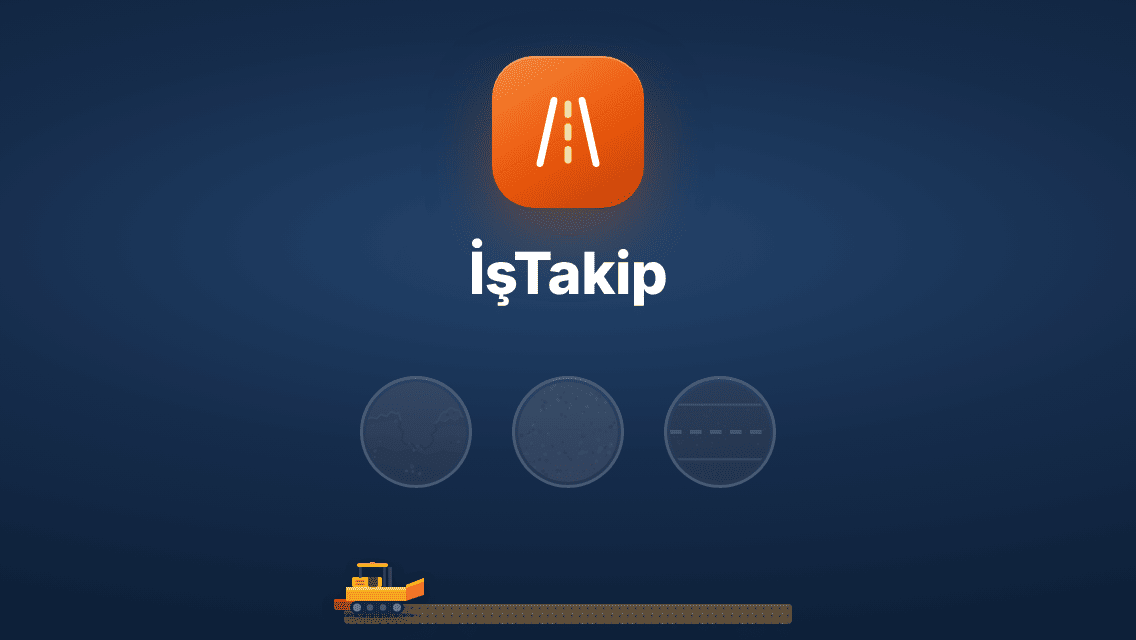
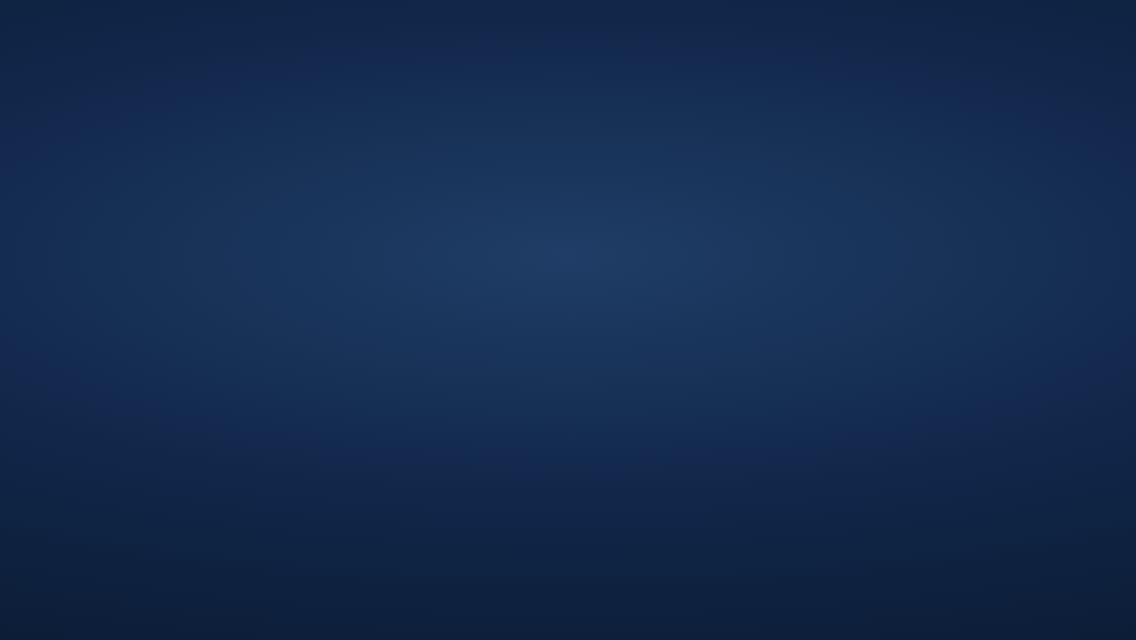
v196: yeni ikon (perspektif yol) ve açılış: 3 boyutlu yol kesiti, İşTakip yazısı yolla birlikte açılır
Claude-Session: https://claude.ai/code/session_019NYnSCe667n7dsMHkU3j1n

diff --git a/index.html b/index.html
@@ -41,43 +41,15 @@
 <link rel="apple-touch-startup-image" media="(device-width: 420px) and (device-height: 912px) and (-webkit-device-pixel-ratio: 3) and (orientation: portrait)" href="acilis/ac-1260x2736.png">
 <link rel="apple-touch-startup-image" media="(device-width: 420px) and (device-height: 912px) and (-webkit-device-pixel-ratio: 3) and (orientation: landscape)" href="acilis/ac-2736x1260.png">
 <style>
-#ac9{ position:fixed; inset:0; z-index:2147483000; display:flex; flex-direction:column; align-items:center; justify-content:center; text-align:center; padding:var(--ac9t,0px) 26px var(--ac9b,0px); background:radial-gradient(120% 70% at 50% 38%,#24456f 0%,#152c4b 48%,#0c1d35 100%); color:#fff; font-family:-apple-system,"SF Pro Display","Segoe UI",Roboto,Arial,sans-serif; transition:opacity .35s ease, transform .35s ease; -webkit-font-smoothing:antialiased; }
[2 lines of base64/hex data omitted]
 #ac9, #ac9 *{ box-sizing:border-box; }
-#ac9.git{ opacity:0; transform:scale(1.03); pointer-events:none; }
-#ac9 .l9{ width:76px; height:76px; border-radius:21px; background:linear-gradient(150deg,#fb8a3c,#ea580c 55%,#c2410c); display:flex; align-items:center; justify-content:center; box-shadow:0 12px 32px rgba(234,88,12,.35), inset 0 1px 0 rgba(255,255,255,.25); }
-#ac9 h1{ margin:15px 0 0; font-size:29px; font-weight:800; letter-spacing:-.01em; }
-#ac9 .r9{ display:flex; align-items:center; gap:20px; margin-top:34px; }
-#ac9 .k9{ display:flex; }
-#ac9 .h9{ position:relative; width:56px; height:56px; border-radius:50%; padding:3px; background:rgba(255,255,255,.07); box-shadow:inset 0 0 0 1.5px rgba(255,255,255,.16); }
-#ac9 .h9 svg{ display:block; width:50px; height:50px; border-radius:50%; opacity:.13; filter:grayscale(1); }
-#ac9 .h9 svg.o9{ position:absolute; inset:0; width:56px; height:56px; border-radius:0; opacity:1; filter:none; transform:rotate(-90deg); overflow:visible; }
-#ac9 .o9 circle{ fill:none; stroke:#fb923c; stroke-width:2.5; stroke-linecap:round; stroke-dasharray:168.08; stroke-dashoffset:168.08; }
-#ac9 .y9{ position:relative; width:224px; height:34px; margin-top:34px; }
-#ac9 .y9 .s9{ position:absolute; left:0; right:0; bottom:0; height:10px; border-radius:2px; background:#5d4d39; box-shadow:inset 0 1px 0 rgba(255,255,255,.08); overflow:hidden; }
-#ac9 .y9 .s9::before{ content:""; position:absolute; inset:0; background:radial-gradient(circle,rgba(0,0,0,.25) .6px,transparent .9px) 0 0/4px 4px, radial-gradient(circle,rgba(255,255,255,.12) .5px,transparent .8px) 2px 2px/5px 5px; }
-#ac9 .y9 .a9{ position:absolute; left:0; bottom:0; height:10px; width:0; overflow:hidden; border-radius:2px 0 0 2px; }
-#ac9 .y9 .a9 b{ position:absolute; left:0; top:0; bottom:0; width:224px; background:linear-gradient(#e2e8f0,#e2e8f0) 0 1px/100% 1px no-repeat, linear-gradient(#e2e8f0,#e2e8f0) 0 calc(100% - 1px)/100% 1px no-repeat, repeating-linear-gradient(90deg,#f8fafc 0 7px,transparent 7px 13px) 0 50%/100% 1.6px no-repeat, #24272c; }
-#ac9 .f9{ position:absolute; left:0; bottom:3px; margin-left:-5px; filter:drop-shadow(0 2px 3px rgba(0,0,0,.25)); }
-#ac9 .f9 .d9{ opacity:0; }
-#ac9.oyna .a9{ animation:ac9w 1.8s linear forwards; }
-#ac9.oyna .f9{ animation:ac9l 1.8s linear forwards; }
-#ac9.oyna .f9 .b9{ animation:ac9b .7s steps(2) infinite; }
-#ac9.oyna .f9 .d9{ animation:ac9d 1.1s ease-out infinite; }
-#ac9.oyna .k9 .h9 svg:not(.o9){ animation:ac9s .6s linear forwards; }
-#ac9.oyna .k9 .o9 circle{ animation:ac9o .6s linear forwards; }
-#ac9.oyna .k9 .h9{ animation:ac9h .45s cubic-bezier(.2,1.4,.4,1) forwards; }
-#ac9.oyna .k1 .h9 svg:not(.o9), #ac9.oyna .k1 .o9 circle{ animation-delay:0s; } #ac9.oyna .k1 .h9{ animation-delay:.6s; }
-#ac9.oyna .k2 .h9 svg:not(.o9), #ac9.oyna .k2 .o9 circle{ animation-delay:.6s; } #ac9.oyna .k2 .h9{ animation-delay:1.2s; }
-#ac9.oyna .k3 .h9 svg:not(.o9), #ac9.oyna .k3 .o9 circle{ animation-delay:1.2s; } #ac9.oyna .k3 .h9{ animation-delay:1.8s; }
-@keyframes ac9w{ to{ width:100%; } }
-@keyframes ac9l{ 0%{ left:0; opacity:1; } 90%{ opacity:1; } 100%{ left:100%; opacity:0; } }
-@keyframes ac9b{ 50%{ opacity:.25; } }
-@keyframes ac9d{ 0%{ opacity:.55; transform:translate(0,0) scale(.6); } 100%{ opacity:0; transform:translate(-3px,-6px) scale(1.6); } }
-@keyframes ac9s{ to{ opacity:1; filter:none; } }
-@keyframes ac9h{ 0%{ transform:scale(1); } 45%{ transform:scale(1.07); } 100%{ transform:scale(1); box-shadow:inset 0 0 0 1.5px rgba(255,255,255,.16), 0 0 18px rgba(251,146,60,.35); } }
-@keyframes ac9o{ to{ stroke-dashoffset:0; } }
-#ac9 .f9 .d9{ transform-box:fill-box; transform-origin:center; }
-@media (prefers-reduced-motion: reduce){ #ac9.oyna .f9 .d9, #ac9.oyna .f9 .b9{ animation:none; } }
+#ac9{ position:fixed; inset:0; z-index:2147483000; display:flex; flex-direction:column; align-items:center; justify-content:center; padding:var(--ac9t,0px) 0 var(--ac9b,0px); background:radial-gradient(130% 75% at 50% 40%,#1f3d66 0%,#11274a 50%,#0a1a31 100%); color:#fff; transition:opacity .4s ease; -webkit-font-smoothing:antialiased; }
+#ac9.git{ opacity:0; pointer-events:none; }
+#ac9 .w9{ font-size:40px; line-height:1.15; white-space:nowrap; clip-path:inset(-20% 100% -20% 0); }
+#ac9 .w9 b{ font-family:"AcIs",-apple-system,"SF Pro Display",system-ui,sans-serif; font-weight:700; color:#fb923c; letter-spacing:-.02em; margin-right:2px; }
+#ac9 .w9 span{ font-family:"AcTk",-apple-system,"SF Pro Display",system-ui,sans-serif; font-weight:300; letter-spacing:-.01em; }
+#ac9 svg.k9{ display:block; width:min(86vw,340px); height:auto; margin-top:54px; overflow:visible; }
 @supports (padding: env(safe-area-inset-top)){ #ac9{ --ac9t:env(safe-area-inset-top); --ac9b:env(safe-area-inset-bottom); } }
 </style>
 <style>
@@ -1796,7 +1768,43 @@ html.dark .csb9, html.dark .ys9{ background:rgba(239,68,68,.18); color:#fca5a5; 
 </style>
 </head>
 <body>
-<div id="ac9" class="oyna" aria-hidden="true"><svg width="0" height="0" style="position:absolute"><defs><clipPath id="ac9c"><circle cx="30" cy="30" r="30"/></clipPath></defs></svg><div class="l9"><svg width="42" height="42" viewBox="0 0 24 24" fill="none" stroke="#fff" stroke-width="2" stroke-linecap="round"><path d="M8 3L4 21M16 3l4 18"/><path d="M12 4v3M12 10.5v3M12 17v3" stroke="#fde68a"/></svg></div><h1>İşTakip</h1><div class="r9"><div class="k9 k1"><span class="h9"><svg viewBox="0 0 60 60"><g clip-path="url(#ac9c)"><defs><clipPath id="ac9g"><path d="M0 23 L3 21.2 L6.5 22 L9 19.4 L12.5 20.6 L15 17.8 L18.2 19.1 L19.6 18.4 L21 23.5 L19.8 27.2 L22.4 30.1 L21.3 34.6 L24 37.8 L27.2 36.4 L29.5 39.6 L32.8 37.9 L35.1 40.3 L38.4 38.2 L40.6 34.9 L39.4 31.6 L42.3 28.8 L41.2 25.1 L44 22.6 L47.5 23.4 L50.2 21.1 L53.4 22.7 L56.1 20.2 L60 21.4 L60 60 L0 60 Z"/></clipPath><linearGradient id="ac9k" x1="0" y1="0" x2="0" y2="1"><stop offset="0" stop-color="#4b74a6"/><stop offset="1" stop-color="#2c4f7c"/></linearGradient></defs><rect width="60" height="60" fill="url(#ac9k)"/><g clip-path="url(#ac9g)"><rect width="60" height="60" fill="#7a4828"/><path d="M0 26 L8 24.5 L15 23 L24 27 L33 25.5 L42 28 L50 26 L60 27 L60 33 L50 32.5 L41 35 L31 32 L22 34.5 L12 31 L0 33 Z" fill="#8e5631"/><path d="M0 41 L9 38.5 L18 42 L27 40 L36 44 L46 41 L60 43 V60 H0 Z" fill="#5b3219"/><path d="M0 50 L11 48 L21 51.5 L33 49 L44 52 L60 50 V60 H0 Z" fill="#46250f"/><circle cx="20.1" cy="10.4" r="1.13" fill="#b07d52"/><circle cx="48.0" cy="7.3" r="1.06" fill="#c49264"/><circle cx="4.1" cy="26.3" r="0.52" fill="#b07d52"/><circle cx="32.9" cy="5.3" r="1.04" fill="#c49264"/><circle cx="37.3" cy="34.6" r="0.51" fill="#8d6a4b"/><circle cx="4.8" cy="14.4" r="1.03" fill="#c49264"/><circle cx="18.2" cy="10.1" r="0.57" fill="#3e2210"/><circle cx="33.4" cy="40.2" r="0.56" fill="#c49264"/><circle cx="22.9" cy="32.7" r="0.52" fill="#b07d52"/><circle cx="36.7" cy="29.8" r="1.01" fill="#3e2210"/><circle cx="28.1" cy="53.7" r="0.83" fill="#c49264"/><circle cx="46.5" cy="41.1" r="0.71" fill="#3e2210"/><circle cx="31.4" cy="51.0" r="1.22" fill="#3e2210"/><circle cx="36.1" cy="6.1" r="0.99" fill="#c49264"/><circle cx="44.4" cy="10.5" r="0.96" fill="#b07d52"/><circle cx="55.9" cy="6.3" r="1.04" fill="#3e2210"/><circle cx="21.0" cy="21.6" r="0.97" fill="#8d6a4b"/><circle cx="5.9" cy="7.2" r="0.73" fill="#b07d52"/><circle cx="5.4" cy="41.3" r="1.13" fill="#8d6a4b"/><circle cx="17.9" cy="23.6" r="1.15" fill="#b07d52"/><circle cx="54.7" cy="21.9" r="1.09" fill="#8d6a4b"/><circle cx="5.3" cy="45.0" r="0.59" fill="#c49264"/><circle cx="24.3" cy="53.3" r="0.97" fill="#c49264"/><circle cx="27.2" cy="32.8" r="1.38" fill="#8d6a4b"/><circle cx="50.4" cy="17.6" r="0.89" fill="#3e2210"/><circle cx="40.2" cy="23.3" r="0.69" fill="#b07d52"/><circle cx="11.9" cy="15.0" r="0.70" fill="#8d6a4b"/><circle cx="48.5" cy="12.2" r="0.75" fill="#c49264"/><circle cx="25.5" cy="22.7" r="1.04" fill="#c49264"/><circle cx="40.7" cy="30.9" r="1.10" fill="#b07d52"/><circle cx="27.6" cy="50.8" r="1.45" fill="#8d6a4b"/><circle cx="24.3" cy="24.1" r="0.96" fill="#8d6a4b"/><circle cx="5.5" cy="5.8" r="0.67" fill="#c49264"/><circle cx="8.2" cy="35.6" r="0.56" fill="#c49264"/><circle cx="32.1" cy="55.1" r="1.09" fill="#b07d52"/><circle cx="51.0" cy="36.4" r="0.61" fill="#3e2210"/><circle cx="55.5" cy="35.7" r="0.95" fill="#b07d52"/><circle cx="49.5" cy="57.6" r="0.94" fill="#8d6a4b"/><circle cx="19.5" cy="10.1" r="1.24" fill="#3e2210"/><circle cx="28.8" cy="40.8" r="0.99" fill="#c49264"/><circle cx="55.3" cy="31.6" r="0.60" fill="#b07d52"/><circle cx="44.5" cy="18.7" r="1.13" fill="#b07d52"/><circle cx="41.0" cy="16.6" r="0.84" fill="#c49264"/><circle cx="21.9" cy="14.5" r="1.02" fill="#3e2210"/></g><path d="M0 23 L3 21.2 L6.5 22 L9 19.4 L12.5 20.6 L15 17.8 L18.2 19.1 L19.6 18.4 L21 23.5 L19.8 27.2 L22.4 30.1 L21.3 34.6 L24 37.8 L27.2 36.4 L29.5 39.6 L32.8 37.9 L35.1 40.3 L38.4 38.2 L40.6 34.9 L39.4 31.6 L42.3 28.8 L41.2 25.1 L44 22.6 L47.5 23.4 L50.2 21.1 L53.4 22.7 L56.1 20.2 L60 21.4" fill="none" stroke="#c48a57" stroke-width="1.1" stroke-linejoin="round"/><path d="M21 23.5 L19.8 27.2 L22.4 30.1 L21.3 34.6 L24 37.8 L27.2 36.4 L29.5 39.6 L32.8 37.9 L35.1 40.3 L38.4 38.2 L40.6 34.9 L39.4 31.6 L42.3 28.8 L41.2 25.1" fill="none" stroke="#3a1e0c" stroke-width="1.4" stroke-linejoin="round" opacity=".8"/><path d="M43.4 23 C44.6 19.6 46.2 17.2 48.3 17.9 C49.6 15.1 52.1 14.6 53.4 16.8 C55.2 16 56.8 17.6 57.2 20.4 L53.4 22.7 L50.2 21.1 L47.5 23.4 Z" fill="#a36a3c"/><path d="M43.4 23 C44.6 19.6 46.2 17.2 48.3 17.9 C49.6 15.1 52.1 14.6 53.4 16.8 C55.2 16 56.8 17.6 57.2 20.4" fill="none" stroke="#c89464" stroke-width=".9"/><circle cx="49" cy="19.6" r=".9" fill="#5a3219"/><circle cx="52.6" cy="18.4" r=".7" fill="#6e4126"/><circle cx="31" cy="38.6" r="1.1" fill="#9c7350"/><circle cx="26" cy="36.9" r=".8" fill="#9c7350"/></g></svg><svg class="o9" viewBox="0 0 56 56"><circle cx="28" cy="28" r="26.75"/></svg></span></div><div class="k9 k2"><span class="h9"><svg viewBox="0 0 60 60"><g clip-path="url(#ac9c)"><rect width="60" height="60" fill="#a68a63"/><circle cx="37.6" cy="36.3" r="1.12" fill="#c4ab84"/><circle cx="47.1" cy="47.8" r="1.08" fill="#c4ab84"/><circle cx="13.2" cy="29.6" r="1.07" fill="#8a7050"/><circle cx="46.2" cy="28.4" r="0.61" fill="#7b6547"/><circle cx="55.6" cy="27.0" r="1.25" fill="#6f5a3d"/><circle cx="55.5" cy="22.4" r="0.64" fill="#c4ab84"/><circle cx="28.3" cy="20.9" r="0.86" fill="#7b6547"/><circle cx="49.1" cy="28.9" r="1.01" fill="#8a7050"/><circle cx="48.7" cy="8.7" r="0.78" fill="#c4ab84"/><circle cx="28.8" cy="12.0" r="1.12" fill="#6f5a3d"/><circle cx="6.9" cy="55.0" r="1.06" fill="#d8c4a0"/><circle cx="24.5" cy="55.0" r="1.07" fill="#c4ab84"/><circle cx="57.6" cy="3.5" r="0.95" fill="#d8c4a0"/><circle cx="47.2" cy="10.2" r="1.15" fill="#d8c4a0"/><circle cx="38.8" cy="21.6" r="0.92" fill="#c4ab84"/><circle cx="3.2" cy="46.8" r="1.07" fill="#8a7050"/><circle cx="31.5" cy="54.3" r="0.82" fill="#c4ab84"/><circle cx="48.3" cy="13.8" r="0.66" fill="#6f5a3d"/><circle cx="30.1" cy="44.8" r="0.73" fill="#7b6547"/><circle cx="25.5" cy="9.3" r="1.22" fill="#6f5a3d"/><circle cx="52.3" cy="39.1" r="1.14" fill="#7b6547"/><circle cx="25.6" cy="53.4" r="0.88" fill="#7b6547"/><circle cx="10.5" cy="30.6" r="1.19" fill="#c4ab84"/><circle cx="36.1" cy="45.5" r="0.58" fill="#c4ab84"/><circle cx="28.5" cy="42.6" r="0.92" fill="#6f5a3d"/><circle cx="40.2" cy="31.7" r="0.86" fill="#8a7050"/><circle cx="51.5" cy="5.2" r="0.61" fill="#8a7050"/><circle cx="45.2" cy="30.4" r="0.93" fill="#8a7050"/><circle cx="26.8" cy="36.3" r="0.88" fill="#7b6547"/><circle cx="13.2" cy="17.5" r="0.88" fill="#d8c4a0"/><circle cx="30.4" cy="15.9" r="0.89" fill="#6f5a3d"/><circle cx="53.7" cy="52.0" r="0.62" fill="#d8c4a0"/><circle cx="9.7" cy="8.8" r="0.83" fill="#8a7050"/><circle cx="39.6" cy="26.0" r="0.63" fill="#6f5a3d"/><circle cx="45.9" cy="52.2" r="0.58" fill="#6f5a3d"/><circle cx="10.0" cy="51.4" r="1.27" fill="#c4ab84"/><circle cx="43.8" cy="7.3" r="1.20" fill="#c4ab84"/><circle cx="57.4" cy="48.6" r="0.59" fill="#d8c4a0"/><circle cx="57.7" cy="24.6" r="0.81" fill="#6f5a3d"/><circle cx="19.8" cy="42.4" r="0.47" fill="#7b6547"/><circle cx="27.7" cy="41.4" r="0.78" fill="#7b6547"/><circle cx="36.9" cy="30.7" r="0.50" fill="#c4ab84"/><circle cx="56.4" cy="7.9" r="0.68" fill="#8a7050"/><circle cx="52.7" cy="12.2" r="1.09" fill="#d8c4a0"/><circle cx="49.6" cy="39.9" r="1.25" fill="#d8c4a0"/><circle cx="10.4" cy="53.5" r="0.94" fill="#6f5a3d"/><circle cx="7.0" cy="5.2" r="1.03" fill="#d8c4a0"/><circle cx="52.1" cy="17.1" r="0.46" fill="#8a7050"/><circle cx="46.9" cy="6.7" r="1.18" fill="#8a7050"/><circle cx="16.8" cy="8.8" r="0.46" fill="#7b6547"/><circle cx="25.4" cy="53.3" r="0.98" fill="#8a7050"/><circle cx="31.5" cy="15.4" r="0.54" fill="#c4ab84"/><circle cx="16.7" cy="12.1" r="1.24" fill="#6f5a3d"/><circle cx="31.7" cy="13.5" r="0.83" fill="#c4ab84"/><circle cx="17.1" cy="47.0" r="1.30" fill="#8a7050"/><circle cx="2.9" cy="43.1" r="0.92" fill="#c4ab84"/><circle cx="30.8" cy="15.8" r="0.83" fill="#d8c4a0"/><circle cx="38.8" cy="32.6" r="1.21" fill="#7b6547"/><circle cx="19.2" cy="14.1" r="0.65" fill="#c4ab84"/><circle cx="48.6" cy="41.6" r="0.99" fill="#d8c4a0"/><circle cx="57.4" cy="57.0" r="1.16" fill="#8a7050"/><circle cx="6.0" cy="43.5" r="0.67" fill="#c4ab84"/><circle cx="5.1" cy="39.3" r="0.77" fill="#7b6547"/><circle cx="39.6" cy="17.8" r="0.66" fill="#6f5a3d"/><circle cx="4.5" cy="12.4" r="0.68" fill="#8a7050"/><circle cx="16.7" cy="55.9" r="1.28" fill="#7b6547"/><circle cx="20.1" cy="3.9" r="1.20" fill="#c4ab84"/><circle cx="22.0" cy="2.1" r="0.77" fill="#d8c4a0"/><circle cx="17.6" cy="38.7" r="0.66" fill="#8a7050"/><circle cx="7.1" cy="47.8" r="0.57" fill="#7b6547"/><circle cx="4.3" cy="3.3" r="0.71" fill="#c4ab84"/><circle cx="6.7" cy="55.6" r="1.18" fill="#c4ab84"/><circle cx="38.8" cy="42.1" r="1.20" fill="#d8c4a0"/><circle cx="44.8" cy="42.4" r="0.87" fill="#6f5a3d"/><circle cx="42.6" cy="38.0" r="0.49" fill="#7b6547"/><circle cx="37.1" cy="43.1" r="1.14" fill="#c4ab84"/><circle cx="53.0" cy="44.2" r="0.93" fill="#8a7050"/><circle cx="48.3" cy="34.7" r="1.21" fill="#c4ab84"/><circle cx="6.8" cy="4.3" r="0.99" fill="#8a7050"/><circle cx="23.1" cy="27.3" r="0.49" fill="#8a7050"/><circle cx="37.1" cy="40.1" r="0.87" fill="#8a7050"/><circle cx="27.6" cy="5.9" r="1.24" fill="#7b6547"/><circle cx="7.1" cy="31.5" r="1.08" fill="#d8c4a0"/><circle cx="16.1" cy="6.2" r="0.68" fill="#c4ab84"/><circle cx="14.9" cy="38.4" r="0.84" fill="#d8c4a0"/><circle cx="6.3" cy="53.0" r="0.69" fill="#8a7050"/><circle cx="36.6" cy="38.0" r="0.52" fill="#c4ab84"/><circle cx="20.6" cy="38.5" r="1.04" fill="#7b6547"/><circle cx="33.8" cy="2.7" r="0.50" fill="#6f5a3d"/><circle cx="56.5" cy="7.6" r="0.64" fill="#d8c4a0"/><circle cx="18.3" cy="30.9" r="0.84" fill="#d8c4a0"/><circle cx="45.0" cy="57.6" r="0.92" fill="#6f5a3d"/><circle cx="56.8" cy="54.4" r="0.46" fill="#d8c4a0"/><circle cx="6.3" cy="30.4" r="1.30" fill="#6f5a3d"/><circle cx="23.7" cy="53.3" r="1.24" fill="#8a7050"/><circle cx="34.6" cy="9.9" r="0.90" fill="#6f5a3d"/><circle cx="9.4" cy="47.9" r="0.88" fill="#8a7050"/><circle cx="41.4" cy="15.0" r="1.21" fill="#d8c4a0"/><circle cx="24.1" cy="10.9" r="1.26" fill="#d8c4a0"/><circle cx="24.7" cy="42.7" r="0.80" fill="#d8c4a0"/><circle cx="19.7" cy="49.1" r="0.45" fill="#6f5a3d"/><circle cx="49.0" cy="8.7" r="1.24" fill="#8a7050"/><circle cx="52.5" cy="18.2" r="0.77" fill="#d8c4a0"/><circle cx="23.8" cy="50.7" r="0.51" fill="#d8c4a0"/><circle cx="44.3" cy="49.8" r="0.69" fill="#8a7050"/><circle cx="48.7" cy="18.0" r="1.25" fill="#c4ab84"/><circle cx="56.4" cy="26.4" r="0.72" fill="#6f5a3d"/><circle cx="46.0" cy="26.0" r="0.47" fill="#d8c4a0"/><circle cx="53.2" cy="54.7" r="0.92" fill="#8a7050"/><circle cx="4.8" cy="43.0" r="0.83" fill="#c4ab84"/><circle cx="38.1" cy="18.0" r="0.49" fill="#7b6547"/><circle cx="9.1" cy="28.4" r="0.74" fill="#6f5a3d"/><circle cx="16.3" cy="43.4" r="1.00" fill="#d8c4a0"/><circle cx="38.7" cy="18.8" r="0.92" fill="#d8c4a0"/><circle cx="8.7" cy="38.0" r="0.51" fill="#7b6547"/><circle cx="52.7" cy="29.8" r="0.64" fill="#6f5a3d"/><circle cx="57.8" cy="27.2" r="0.57" fill="#c4ab84"/><circle cx="15.7" cy="11.8" r="0.92" fill="#6f5a3d"/><circle cx="15.4" cy="16.5" r="0.93" fill="#8a7050"/><circle cx="44.0" cy="25.1" r="0.80" fill="#7b6547"/><circle cx="13.8" cy="17.1" r="1.09" fill="#d8c4a0"/><circle cx="17.5" cy="56.2" r="0.56" fill="#7b6547"/><circle cx="31.6" cy="46.3" r="1.17" fill="#8a7050"/><circle cx="17.2" cy="15.9" r="0.79" fill="#d8c4a0"/><circle cx="26.2" cy="19.5" r="1.14" fill="#8a7050"/><circle cx="9.1" cy="25.8" r="1.10" fill="#d8c4a0"/><circle cx="56.2" cy="29.4" r="0.51" fill="#7b6547"/><circle cx="49.9" cy="56.4" r="0.66" fill="#8a7050"/><circle cx="14.5" cy="10.5" r="1.28" fill="#8a7050"/><circle cx="54.7" cy="42.4" r="1.00" fill="#d8c4a0"/><circle cx="6.8" cy="45.5" r="0.45" fill="#c4ab84"/><circle cx="15.0" cy="53.5" r="1.00" fill="#6f5a3d"/><circle cx="55.9" cy="37.1" r="0.90" fill="#d8c4a0"/><circle cx="41.1" cy="8.3" r="0.51" fill="#7b6547"/><circle cx="54.8" cy="12.7" r="0.67" fill="#7b6547"/><circle cx="2.1" cy="32.1" r="1.30" fill="#6f5a3d"/><circle cx="55.7" cy="38.1" r="1.20" fill="#d8c4a0"/><circle cx="31.5" cy="32.6" r="0.47" fill="#d8c4a0"/><circle cx="41.5" cy="19.2" r="0.47" fill="#d8c4a0"/><circle cx="51.6" cy="38.2" r="0.52" fill="#c4ab84"/><circle cx="39.4" cy="53.8" r="0.64" fill="#8a7050"/><circle cx="41.0" cy="42.2" r="0.76" fill="#d8c4a0"/><circle cx="13.1" cy="46.6" r="1.08" fill="#7b6547"/><circle cx="5.8" cy="29.8" r="0.62" fill="#c4ab84"/><circle cx="14.9" cy="14.4" r="1.10" fill="#6f5a3d"/><circle cx="8.1" cy="36.9" r="0.97" fill="#c4ab84"/><circle cx="29.2" cy="53.0" r="0.50" fill="#7b6547"/><circle cx="10.2" cy="24.0" r="0.63" fill="#7b6547"/><circle cx="9.9" cy="4.9" r="0.50" fill="#d8c4a0"/><circle cx="27.2" cy="41.9" r="0.72" fill="#8a7050"/></g></svg><svg class="o9" viewBox="0 0 56 56"><circle cx="28" cy="28" r="26.75"/></svg></span></div><div class="k9 k3"><span class="h9"><svg viewBox="0 0 60 60"><g clip-path="url(#ac9c)"><rect width="60" height="60" fill="#25282d"/><circle cx="57.9" cy="54.2" r="0.46" fill="#3b3f46"/><circle cx="38.5" cy="31.4" r="0.53" fill="#17191c"/><circle cx="39.2" cy="23.2" r="0.49" fill="#17191c"/><circle cx="26.8" cy="8.1" r="0.34" fill="#3b3f46"/><circle cx="21.7" cy="55.5" r="0.36" fill="#3b3f46"/><circle cx="23.3" cy="45.0" r="0.45" fill="#17191c"/><circle cx="6.9" cy="41.5" r="0.40" fill="#4a4e55"/><circle cx="53.5" cy="12.8" r="0.48" fill="#17191c"/><circle cx="3.7" cy="25.0" r="0.71" fill="#17191c"/><circle cx="4.3" cy="4.0" r="0.33" fill="#3b3f46"/><circle cx="16.4" cy="43.8" r="0.75" fill="#17191c"/><circle cx="22.3" cy="20.8" r="0.78" fill="#3b3f46"/><circle cx="16.7" cy="42.1" r="0.46" fill="#17191c"/><circle cx="18.7" cy="42.4" r="0.60" fill="#4a4e55"/><circle cx="55.0" cy="5.7" r="0.71" fill="#3b3f46"/><circle cx="28.6" cy="55.6" r="0.78" fill="#17191c"/><circle cx="46.2" cy="53.2" r="0.71" fill="#3b3f46"/><circle cx="54.0" cy="12.2" r="0.70" fill="#4a4e55"/><circle cx="19.0" cy="40.8" r="0.38" fill="#3b3f46"/><circle cx="20.4" cy="19.9" r="0.48" fill="#4a4e55"/><circle cx="6.4" cy="13.0" r="0.68" fill="#3b3f46"/><circle cx="24.8" cy="38.4" r="0.54" fill="#4a4e55"/><circle cx="20.2" cy="56.9" r="0.74" fill="#3b3f46"/><circle cx="16.8" cy="6.7" r="0.35" fill="#17191c"/><circle cx="57.4" cy="56.4" r="0.39" fill="#3b3f46"/><circle cx="25.3" cy="36.7" r="0.64" fill="#4a4e55"/><circle cx="32.2" cy="45.3" r="0.68" fill="#17191c"/><circle cx="18.5" cy="33.7" r="0.49" fill="#4a4e55"/><circle cx="16.6" cy="26.6" r="0.39" fill="#3b3f46"/><circle cx="10.6" cy="51.5" r="0.59" fill="#17191c"/><circle cx="5.6" cy="16.1" r="0.42" fill="#4a4e55"/><circle cx="15.0" cy="47.3" r="0.63" fill="#3b3f46"/><circle cx="7.7" cy="28.6" r="0.71" fill="#17191c"/><circle cx="53.2" cy="4.3" r="0.45" fill="#3b3f46"/><circle cx="4.8" cy="35.6" r="0.71" fill="#3b3f46"/><circle cx="54.1" cy="22.8" r="0.73" fill="#17191c"/><circle cx="35.8" cy="45.4" r="0.63" fill="#3b3f46"/><circle cx="7.9" cy="35.4" r="0.61" fill="#3b3f46"/><circle cx="4.1" cy="21.0" r="0.32" fill="#17191c"/><circle cx="4.1" cy="43.0" r="0.76" fill="#3b3f46"/><circle cx="47.9" cy="24.9" r="0.49" fill="#4a4e55"/><circle cx="19.5" cy="13.4" r="0.70" fill="#4a4e55"/><circle cx="29.1" cy="24.9" r="0.70" fill="#4a4e55"/><circle cx="32.8" cy="37.8" r="0.35" fill="#3b3f46"/><circle cx="24.3" cy="17.2" r="0.79" fill="#4a4e55"/><circle cx="19.2" cy="55.4" r="0.46" fill="#4a4e55"/><circle cx="51.5" cy="25.2" r="0.31" fill="#17191c"/><circle cx="38.1" cy="23.9" r="0.50" fill="#3b3f46"/><circle cx="26.3" cy="10.8" r="0.36" fill="#3b3f46"/><circle cx="24.7" cy="51.4" r="0.53" fill="#3b3f46"/><circle cx="9.3" cy="4.9" r="0.37" fill="#17191c"/><circle cx="7.0" cy="36.8" r="0.49" fill="#4a4e55"/><circle cx="11.6" cy="21.5" r="0.38" fill="#3b3f46"/><circle cx="53.8" cy="8.1" r="0.55" fill="#3b3f46"/><circle cx="18.9" cy="48.9" r="0.32" fill="#17191c"/><circle cx="19.6" cy="36.0" r="0.62" fill="#3b3f46"/><circle cx="52.6" cy="36.7" r="0.71" fill="#3b3f46"/><circle cx="37.9" cy="50.0" r="0.61" fill="#4a4e55"/><circle cx="49.4" cy="48.4" r="0.39" fill="#3b3f46"/><circle cx="4.3" cy="54.6" r="0.38" fill="#17191c"/><circle cx="8.9" cy="15.8" r="0.66" fill="#3b3f46"/><circle cx="4.3" cy="33.5" r="0.68" fill="#3b3f46"/><circle cx="39.4" cy="20.2" r="0.49" fill="#17191c"/><circle cx="32.8" cy="37.1" r="0.45" fill="#17191c"/><circle cx="19.3" cy="16.0" r="0.49" fill="#17191c"/><circle cx="27.0" cy="26.5" r="0.31" fill="#4a4e55"/><circle cx="57.2" cy="28.1" r="0.52" fill="#4a4e55"/><circle cx="45.7" cy="27.7" r="0.39" fill="#17191c"/><circle cx="24.4" cy="5.8" r="0.48" fill="#17191c"/><circle cx="7.1" cy="26.8" r="0.56" fill="#3b3f46"/><circle cx="4.3" cy="9.3" r="0.76" fill="#17191c"/><circle cx="45.5" cy="30.6" r="0.33" fill="#4a4e55"/><circle cx="52.1" cy="38.6" r="0.69" fill="#3b3f46"/><circle cx="50.0" cy="57.8" r="0.67" fill="#3b3f46"/><circle cx="12.8" cy="57.0" r="0.55" fill="#3b3f46"/><circle cx="40.4" cy="42.4" r="0.41" fill="#17191c"/><circle cx="36.2" cy="16.1" r="0.46" fill="#4a4e55"/><circle cx="17.4" cy="47.7" r="0.37" fill="#4a4e55"/><circle cx="56.0" cy="28.9" r="0.60" fill="#4a4e55"/><circle cx="30.3" cy="19.9" r="0.32" fill="#3b3f46"/><circle cx="24.6" cy="37.6" r="0.44" fill="#17191c"/><circle cx="52.1" cy="11.4" r="0.69" fill="#3b3f46"/><circle cx="45.0" cy="4.7" r="0.73" fill="#17191c"/><circle cx="33.1" cy="34.5" r="0.74" fill="#3b3f46"/><circle cx="16.1" cy="32.0" r="0.73" fill="#4a4e55"/><circle cx="46.7" cy="16.8" r="0.80" fill="#4a4e55"/><circle cx="10.2" cy="20.5" r="0.34" fill="#3b3f46"/><circle cx="11.9" cy="43.6" r="0.32" fill="#4a4e55"/><circle cx="16.2" cy="37.8" r="0.79" fill="#4a4e55"/><circle cx="54.0" cy="52.2" r="0.67" fill="#4a4e55"/><circle cx="3.9" cy="10.4" r="0.61" fill="#17191c"/><circle cx="25.4" cy="22.4" r="0.32" fill="#17191c"/><circle cx="14.7" cy="38.6" r="0.31" fill="#3b3f46"/><circle cx="33.8" cy="19.0" r="0.56" fill="#4a4e55"/><circle cx="14.6" cy="34.7" r="0.59" fill="#3b3f46"/><circle cx="22.5" cy="48.4" r="0.38" fill="#3b3f46"/><circle cx="54.4" cy="15.6" r="0.37" fill="#3b3f46"/><circle cx="5.6" cy="10.1" r="0.63" fill="#17191c"/><circle cx="24.5" cy="16.8" r="0.31" fill="#4a4e55"/><circle cx="48.0" cy="52.0" r="0.60" fill="#4a4e55"/><circle cx="26.9" cy="54.5" r="0.67" fill="#3b3f46"/><circle cx="11.2" cy="2.0" r="0.33" fill="#3b3f46"/><circle cx="24.7" cy="15.3" r="0.33" fill="#3b3f46"/><circle cx="2.7" cy="32.9" r="0.77" fill="#3b3f46"/><circle cx="25.1" cy="31.0" r="0.62" fill="#4a4e55"/><circle cx="37.9" cy="47.5" r="0.39" fill="#17191c"/><circle cx="5.6" cy="37.1" r="0.80" fill="#4a4e55"/><circle cx="45.8" cy="42.1" r="0.30" fill="#17191c"/><circle cx="43.7" cy="28.1" r="0.67" fill="#17191c"/><circle cx="11.8" cy="57.8" r="0.43" fill="#4a4e55"/><circle cx="4.2" cy="20.8" r="0.67" fill="#4a4e55"/><circle cx="54.8" cy="16.7" r="0.33" fill="#4a4e55"/><circle cx="33.0" cy="26.4" r="0.69" fill="#4a4e55"/><circle cx="56.4" cy="18.6" r="0.76" fill="#3b3f46"/><circle cx="6.8" cy="30.4" r="0.38" fill="#3b3f46"/><circle cx="49.1" cy="13.4" r="0.38" fill="#17191c"/><circle cx="12.7" cy="23.8" r="0.60" fill="#17191c"/><circle cx="52.8" cy="37.3" r="0.65" fill="#4a4e55"/><circle cx="49.1" cy="32.0" r="0.54" fill="#4a4e55"/><circle cx="41.1" cy="50.0" r="0.52" fill="#4a4e55"/><rect y="13" width="60" height="1.3" fill="#e2e8f0" opacity=".85"/><rect y="45.7" width="60" height="1.3" fill="#e2e8f0" opacity=".85"/><path d="M0 30H60" stroke="#f8fafc" stroke-width="2.4" stroke-dasharray="7 5"/></g></svg><svg class="o9" viewBox="0 0 56 56"><circle cx="28" cy="28" r="26.75"/></svg></span></div></div><div class="y9"><div class="s9"></div><div class="a9"><b></b></div><svg class="f9" viewBox="0 0 46 28" width="46" height="28" aria-hidden="true"><ellipse cx="22" cy="26.6" rx="20" ry="1.4" fill="#000" opacity=".28"/><rect x="0" y="18.5" width="11" height="5.5" rx="1" fill="#9a3412"/><rect x="0" y="18.5" width="11" height="1.6" rx=".8" fill="#c2410c"/><rect x="8" y="19.5" width="27" height="6.5" rx="3.25" fill="#1e293b"/><circle cx="11.5" cy="22.75" r="2" fill="#64748b"/><circle cx="18" cy="22.75" r="1.6" fill="#475569"/><circle cx="24.5" cy="22.75" r="1.6" fill="#475569"/><circle cx="31.5" cy="22.75" r="2" fill="#64748b"/><path d="M6 12.5h30v7H6z" fill="#f59e0b"/><path d="M6 12.5h30v1.6H6z" fill="#fcd34d"/><path d="M36 11.5l9-3.5v8.5l-9 3z" fill="#d97706"/><path d="M36 11.5l9-3.5v1.6l-9 3.3z" fill="#fbbf24"/><rect x="9" y="7.5" width="15" height="5" rx="1" fill="#fbbf24"/><rect x="10.5" y="9" width="5" height="1" rx=".5" fill="#92400e" opacity=".6"/><rect x="10.5" y="10.6" width="5" height="1" rx=".5" fill="#92400e" opacity=".6"/><rect x="27.2" y="2.5" width="1.8" height="10" fill="#334155"/><rect x="12.5" y="1.6" width="1.3" height="6.5" fill="#334155"/><rect x="24.6" y="1.6" width="1.3" height="11" fill="#334155"/><rect x="11.5" y=".6" width="15.5" height="1.9" rx=".9" fill="#fbbf24"/><rect x="17" y="6.5" width="5" height="6" rx="1" fill="#0f172a" opacity=".75"/><circle class="b9" cx="19.2" cy="-.2" r="1.3" fill="#fb923c"/><circle class="d9" cx="28.1" cy="1" r="1.6" fill="#cbd5e1"/></svg></div></div>
+<div id="ac9" aria-hidden="true"><div class="w9"><b>İş</b><span>Takip</span></div><svg class="k9" viewBox="-4 -22 190 60" aria-hidden="true"><defs><pattern id="ac9pt" width="5" height="5" patternUnits="userSpaceOnUse"><circle cx="1.2" cy="1.5" r=".6" fill="#3e2210" opacity=".7"/><circle cx="3.7" cy="3.8" r=".5" fill="#b07d52" opacity=".6"/></pattern><pattern id="ac9pp" width="4" height="4" patternUnits="userSpaceOnUse"><circle cx="1" cy="1" r=".5" fill="#6f5a3d" opacity=".7"/><circle cx="3" cy="3" r=".45" fill="#e3d1ad" opacity=".7"/></pattern><radialGradient id="ac9gg" cx=".5" cy=".5" r=".5"><stop offset="0" stop-color="#000" stop-opacity=".4"/><stop offset="1" stop-color="#000" stop-opacity="0"/></radialGradient></defs><ellipse class="g9" cx="0" cy="30" rx="0" ry="5" fill="url(#ac9gg)"/><g class="t9"></g></svg></div>
+<script>
+// v196: açılış — 3 boyutlu yol kesiti soldan sağa kurulur (toprak, PMT, BSK), İşTakip yazısı yolla birlikte açılır
+(function(){
+  var e = document.getElementById("ac9"); if(!e) return;
+  var svg = e.querySelector("svg.k9"), g = svg.querySelector(".t9"), gl = svg.querySelector(".g9"), w = e.querySelector(".w9");
+  var L = 150, dx = 24, dy = -13, K = [
+    { h: 10, on: "#6e4126", ust: "#93603a", uc: "#4c2a15", d: "ac9pt", a: .25, b: 1.45 },
+    { h: 6.5, on: "#a88c60", ust: "#c9b083", uc: "#836c48", d: "ac9pp", a: .5, b: 1.7 },
+    { h: 5.5, on: "#2b2f35", ust: "#40454e", uc: "#1a1d21", bsk: 1, a: .75, b: 1.95 } ];
+  function kol(t){ return t < .5 ? 2 * t * t : 1 - Math.pow(-2 * t + 2, 2) / 2; }
+  function ar(t, a, b){ return kol(Math.min(1, Math.max(0, (t - a) / (b - a)))); }
+  function P(a){ return a.map(function(p){ return p[0].toFixed(2) + "," + p[1].toFixed(2); }).join(" "); }
+  function ciz(t){
+    var yb = 26, h = "";
+    K.forEach(function(k){
+      var x = L * ar(t, k.a, k.b), yt = yb - k.h;
+      if(x > .3){
+        h += '<polygon points="' + P([[0, yt], [x, yt], [x + dx, yt + dy], [dx, yt + dy]]) + '" fill="' + k.ust + '"/>';
+        if(k.bsk){ var m = function(f, c, s, o, da){ return '<line x1="' + dx * f + '" y1="' + (yt + dy * f) + '" x2="' + (x + dx * f) + '" y2="' + (yt + dy * f) + '" stroke="' + c + '" stroke-width="' + s + '" opacity="' + o + '"' + (da ? ' stroke-dasharray="7 5"' : "") + '/>'; };
+          h += m(.5, "#fff", 1.3, .95, 1) + m(.14, "#e2e8f0", .6, .7) + m(.86, "#e2e8f0", .6, .7); }
+        h += '<rect x="0" y="' + yt + '" width="' + x + '" height="' + k.h + '" fill="' + k.on + '"/>';
+        if(k.d) h += '<rect x="0" y="' + yt + '" width="' + x + '" height="' + k.h + '" fill="url(#' + k.d + ')"/>';
+        h += '<polygon points="' + P([[x, yt], [x + dx, yt + dy], [x + dx, yb + dy], [x, yb]]) + '" fill="' + k.uc + '"/>';
+        h += '<line x1="0" y1="' + yt + '" x2="' + x + '" y2="' + yt + '" stroke="#fff" stroke-opacity=".14" stroke-width=".6"/>';
+      }
+      yb = yt;
+    });
+    g.innerHTML = h;
+    var x0 = L * ar(t, .25, 1.45); gl.setAttribute("cx", (x0 + dx) / 2); gl.setAttribute("rx", x0 / 2 + 14 * Math.min(1, x0 / 20));
+    w.style.clipPath = w.style.webkitClipPath = "inset(-20% " + (100 - ar(t, .25, 1.95) * 100).toFixed(2) + "% -20% 0)";
+  }
+  var t0 = performance.now(); window.__ac9t0 = t0;
+  function adim(now){ var t = (now - t0) / 1000; ciz(t); if(t < 2.05 && e.isConnected) requestAnimationFrame(adim); }
+  ciz(0); requestAnimationFrame(adim);
+})();
+</script>
 <div id="app"><main id="main"><div class="hos" id="acilis"><div class="hos-logo"><svg width="40" height="40" viewBox="0 0 24 24" fill="none" stroke="#fff" stroke-width="2" stroke-linecap="round"><path d="M8 3L4 21M16 3l4 18"/><path d="M12 4v3M12 10.5v3M12 17v3" stroke="#fde68a"/></svg></div><h1>İşTakip</h1><div class="hos-alt" data-kurum></div><div class="acil-y"><i></i></div><div class="alt-not">YALNIZ GÖRÜNTÜLEME · VERİ BU TELEFONDA</div></div></main><nav class="tabs" id="tabs" style="display:none"></nav></div>
 <script>
 "use strict";
@@ -11701,7 +11709,7 @@ document.addEventListener("click", e => {
 }, true);
 </script>
 <script>
-// v193: açılış ekranı en az 2 sn görünür (finişer yolu asfaltlar, KAZI · PMT · BSK halkaları dolar), uygulama hazır olunca kaybolur; bu haftanın km daireleri sayarak gelir
+// v196: açılış ekranı en az 2 sn görünür (yol kesiti kurulup İşTakip yazısı açılınca kaybolur), uygulama hazır olunca kaybolur; bu haftanın km daireleri sayarak gelir
 (() => {
   const el = document.getElementById("ac9"); if(!el) return;
   let bitti = false, t0 = Date.now();
@@ -11716,8 +11724,8 @@ document.addEventListener("click", e => {
   };
   const bitir = () => {
     if(bitti) return; bitti = true;
-    const kal = Math.max(0, 2000 - performance.now());
-    setTimeout(() => { el.classList.add("dol"); setTimeout(() => { el.classList.add("git"); try{ kmSay(); }catch(_){} setTimeout(() => el.remove(), 360); }, 200); }, kal);
+    const kal = Math.max(0, 2000 - performance.now(), (window.__ac9t0 || 0) + 2150 - performance.now());
+    setTimeout(() => { el.classList.add("git"); try{ kmSay(); }catch(_){} setTimeout(() => el.remove(), 420); }, kal);
   };
   // uygulama ilk ekranını çizene kadar bekle (en çok 6 sn)
   const bak = () => { if(bitti) return; if(document.readyState === "complete" && !document.getElementById("acilis")) return bitir(); if(Date.now() - t0 > 6000) return bitir(); setTimeout(bak, 50); };

diff --git a/sw.js b/sw.js
@@ -2,7 +2,7 @@
 // Açılış hızlı olsun diye uygulama dosyaları ÖNCE ÖNBELLEKTEN verilir (internet beklenmez).
 // Yeni sürüm (bu dosyadaki SURUM değişince) arka planda indirilir; hazır olunca
 // sayfa "Yeni sürüm yüklendi" notunu gösterir.
-const SURUM = "istakip-mobil-v195";
+const SURUM = "istakip-mobil-v196";
 const DOSYALAR = ["./", "index.html", "manifest.json", "leaflet.js", "leaflet.css", "ikon-180.png", "ikon-192.png", "ikon-512.png", "jspdf.min.js", "DejaVuSans-tr.ttf", "DejaVuSans-Bold-tr.ttf", "maplibre-gl.js", "maplibre-gl.css", "leaflet-rotate.js", "pdf.min.js", "pdf.worker.min.js", "iti-cizim.html"];
 self.addEventListener("install", e => {
   // tarayıcının HTTP önbelleği atlanır: yeni sürümün dosyaları gerçekten yeni gelsin
